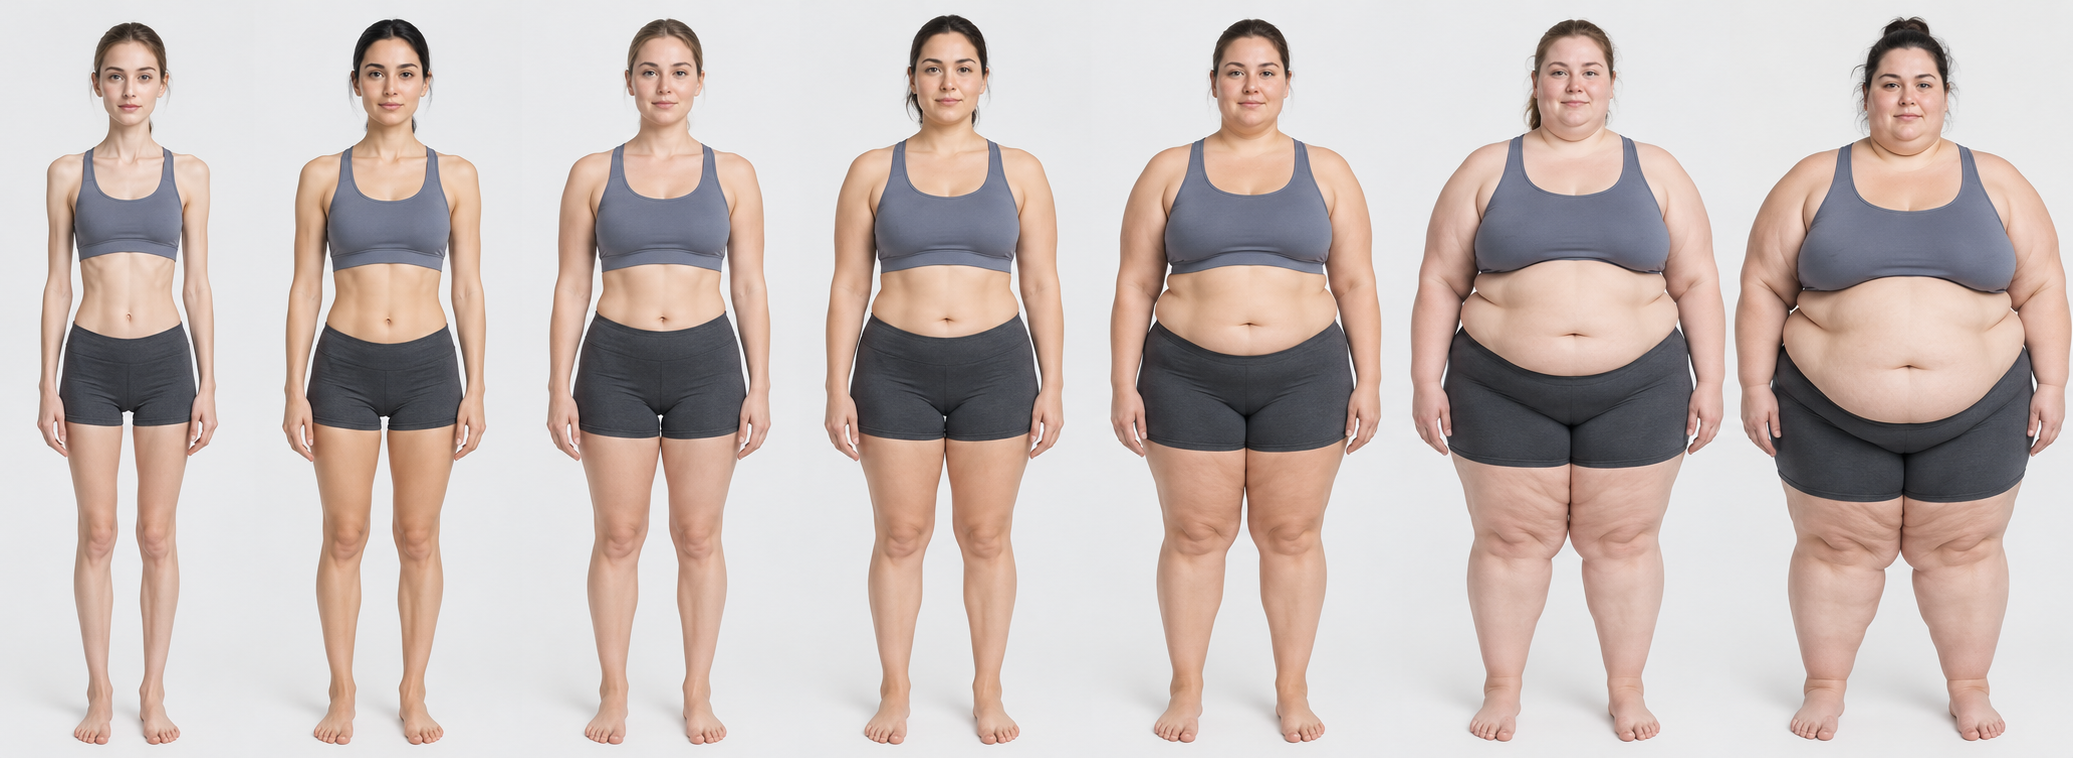
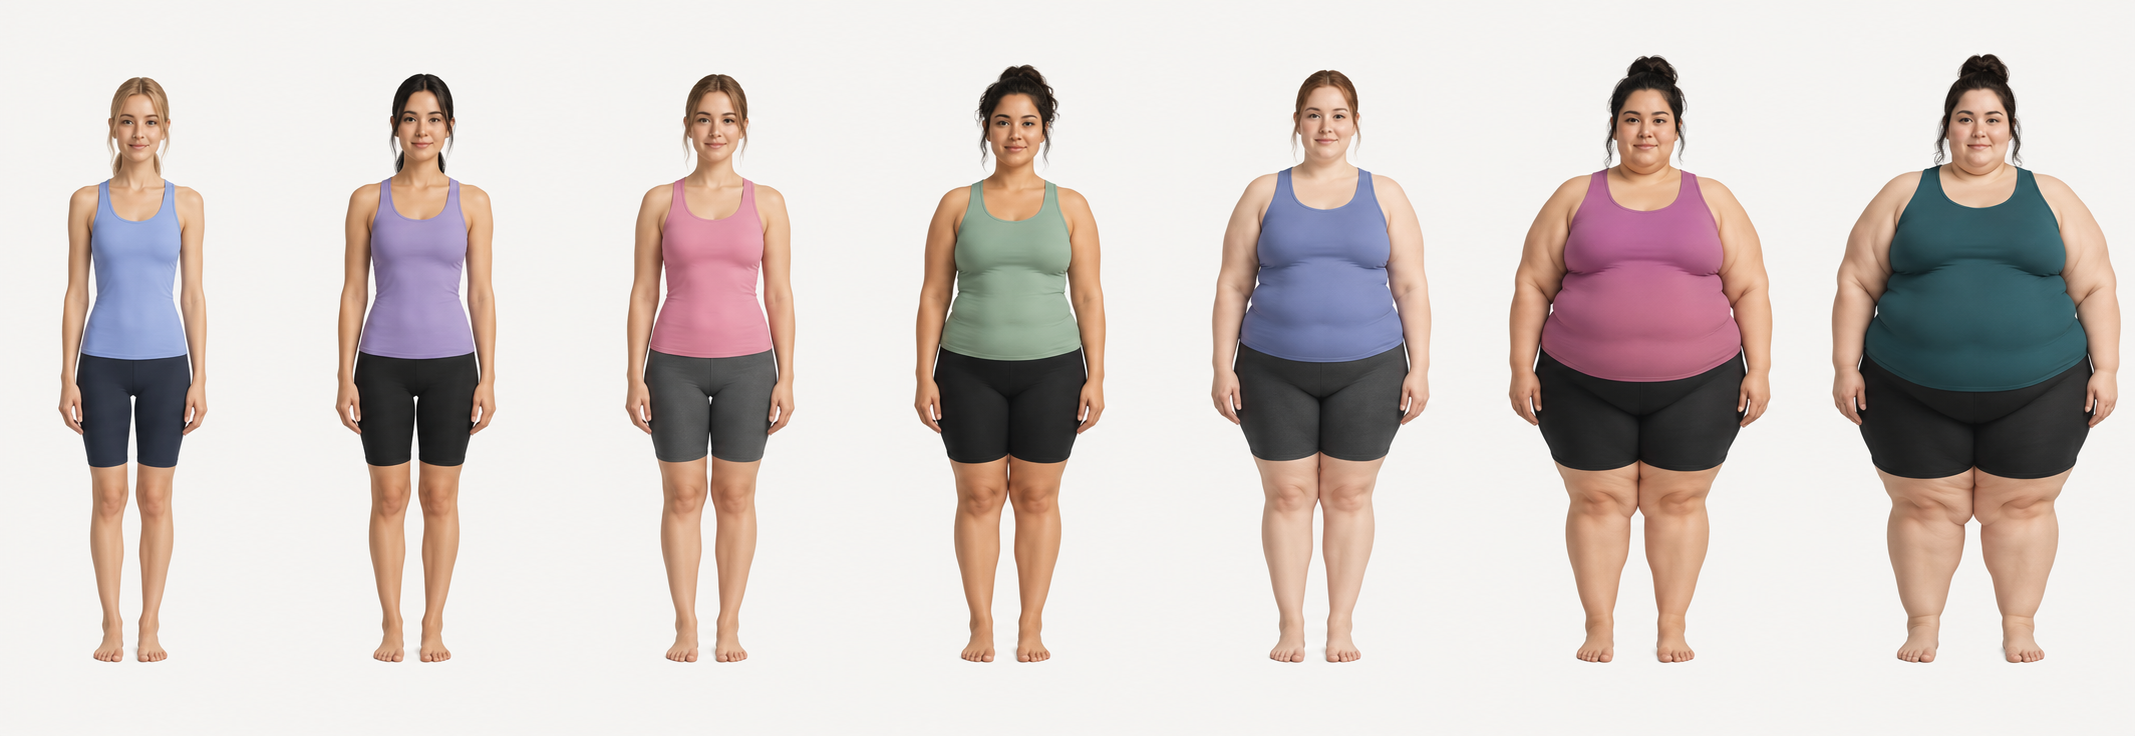
Corregir diseño móvil de datos corporales

diff --git a/gym_project/gym_app/static/css/progreso_onboarding.css b/gym_project/gym_app/static/css/progreso_onboarding.css
@@ -1,8 +1,9 @@
+body:has(.onboarding-page),body:has(.composition-result-page){min-height:100vh;background:radial-gradient(ellipse at top,#172b45 0%,#0b1524 58%,#07111e 100%);color:#f3f5f9}
 .onboarding-page{width:min(920px,92%);margin:0 auto;padding:clamp(2rem,5vw,4rem) 0 5rem;color:#f3f5f9}
 .onboarding-heading{max-width:760px;margin:0 auto 1.6rem;text-align:center}
 .onboarding-heading .eyebrow{display:inline-block;color:#ffb11b;font-size:.78rem;font-weight:800;letter-spacing:.12em;text-transform:uppercase}
-.onboarding-heading h1{margin:.55rem 0;font-size:clamp(2rem,5vw,3rem);line-height:1.08}
-.onboarding-heading p{margin:.5rem auto;color:#c3ccda;font-size:1.05rem;line-height:1.6}
+.onboarding-heading h1{margin:.55rem 0;color:#f8fafc;font-size:clamp(2rem,5vw,3rem);line-height:1.08}
+.onboarding-heading p{margin:.5rem auto;color:#d2dbea;font-size:1.05rem;line-height:1.6}
 .onboarding-card{display:grid;gap:1.2rem;padding:clamp(1.1rem,3vw,2rem);border:1px solid #29384d;border-radius:22px;background:#101a2a;box-shadow:0 20px 55px #0004}
 .onboarding-fields{display:grid;grid-template-columns:repeat(2,minmax(0,1fr));gap:1rem}
 .field-block{display:grid;gap:.5rem;color:#dce2ed;font-weight:700}
@@ -25,7 +26,7 @@
 .body-visual-grid{display:grid;grid-template-columns:repeat(4,minmax(0,1fr));gap:.6rem}
 .body-visual-option{display:grid;gap:.35rem;padding:.45rem;border:1px solid #3c4858;border-radius:10px;text-align:center;cursor:pointer}
 .body-visual-option:has(input:checked){border-color:#ffad18;box-shadow:0 0 0 2px #ffad1850}
-.body-visual-image{min-height:130px;background-size:700% 100%;background-repeat:no-repeat;background-position:var(--sprite-position);border-radius:7px}
+.body-visual-image{display:block;width:100%;min-height:130px;background-size:700% 100%;background-repeat:no-repeat;background-position:var(--sprite-position);border-radius:7px}
 .body-visual-value{font-weight:800}
 .body-method-choice{display:flex;gap:.65rem;align-items:flex-start;padding:.8rem;border:1px solid #3a4658;border-radius:12px;cursor:pointer}
 .body-method-choice input{margin-top:.3rem;accent-color:#ffae13}

diff --git a/gym_project/gym_app/static/css/estilos_registrarse.css b/gym_project/gym_app/static/css/estilos_registrarse.css
@@ -210,8 +210,8 @@ body {
     background-color: #fff;
     border-radius: 9px;
 }
-[data-visual-gender="masculino"] .body-visual-image { background-image: url("../img/body-composition/referencia_grasa_masculina.png"); }
-[data-visual-gender="femenino"] .body-visual-image { background-image: url("../img/body-composition/referencia_grasa_femenina.png"); }
+[data-visual-gender="masculino"] .body-visual-image { background-image: url("../img/body-composition/referencia_grasa_masculina.png?v=paneles-espaciados-2"); }
+[data-visual-gender="femenino"] .body-visual-image { background-image: url("../img/body-composition/referencia_grasa_femenina.png?v=paneles-espaciados-2"); }
 .body-visual-value { display: block; padding-top: 0.25rem; font-size: 0.86rem; font-weight: 800; }
 .body-method-choice { display: flex; align-items: flex-start; gap: 0.6rem; margin: 0.5rem 0; color: #f8fafc; cursor: pointer; }
 .body-method-choice input { flex: 0 0 auto; margin-top: 0.25rem; accent-color: #f59e0b; }

diff --git a/gym_project/gym_app/templates/composicion_corporal.html b/gym_project/gym_app/templates/composicion_corporal.html
@@ -2,8 +2,8 @@
 {% load static %}
 {% block title %}Composición corporal · MaikerGym{% endblock %}
 {% block extra_css %}
-<link rel="stylesheet" href="{% static 'css/estilos_registrarse.css' %}?v=composicion-paso-separado-1">
-<link rel="stylesheet" href="{% static 'css/progreso_onboarding.css' %}?v=1">
+<link rel="stylesheet" href="{% static 'css/estilos_registrarse.css' %}?v=paneles-espaciados-2">
+<link rel="stylesheet" href="{% static 'css/progreso_onboarding.css' %}?v=contraste-mobile-2">
 {% endblock %}
 {% block content %}
 {% include "partials/app_nav.html" %}

diff --git a/gym_project/gym_app/templates/resultado_corporal.html b/gym_project/gym_app/templates/resultado_corporal.html
@@ -4,8 +4,8 @@
 {% block title %}MaikerGym - Resumen corporal{% endblock %}
 
 {% block extra_css %}
-<link rel="stylesheet" href="{% static 'css/estilos_registrarse.css' %}?v=resumen-corporal-1">
-<link rel="stylesheet" href="{% static 'css/progreso_onboarding.css' %}?v=1">
+<link rel="stylesheet" href="{% static 'css/estilos_registrarse.css' %}?v=paneles-espaciados-2">
+<link rel="stylesheet" href="{% static 'css/progreso_onboarding.css' %}?v=contraste-mobile-2">
 {% endblock %}
 
 {% block content %}

diff --git a/gym_project/gym_app/templates/progreso_peso.html b/gym_project/gym_app/templates/progreso_peso.html
@@ -1,7 +1,7 @@
 {% extends "base.html" %}
 {% load static %}
 {% block title %}Revisión de progreso · MaikerGym{% endblock %}
-{% block extra_css %}<link rel="stylesheet" href="{% static 'css/progreso_onboarding.css' %}?v=1">{% endblock %}
+{% block extra_css %}<link rel="stylesheet" href="{% static 'css/progreso_onboarding.css' %}?v=contraste-mobile-2">{% endblock %}
 {% block content %}
 {% include "partials/app_nav.html" %}
 <main class="onboarding-page">

diff --git a/gym_project/gym_app/templates/disponibilidad.html b/gym_project/gym_app/templates/disponibilidad.html
@@ -1,7 +1,7 @@
 {% extends "base.html" %}
 {% load static %}
 {% block title %}Tu semana · MaikerGym{% endblock %}
-{% block extra_css %}<link rel="stylesheet" href="{% static 'css/progreso_onboarding.css' %}?v=1">{% endblock %}
+{% block extra_css %}<link rel="stylesheet" href="{% static 'css/progreso_onboarding.css' %}?v=contraste-mobile-2">{% endblock %}
 {% block content %}
 {% include "partials/app_nav.html" %}
 <main class="onboarding-page">

diff --git a/gym_project/gym_app/templates/datos_basicos.html b/gym_project/gym_app/templates/datos_basicos.html
@@ -2,7 +2,7 @@
 {% load static %}
 {% block title %}Datos básicos · MaikerGym{% endblock %}
 {% block extra_css %}
-<link rel="stylesheet" href="{% static 'css/progreso_onboarding.css' %}?v=1">
+<link rel="stylesheet" href="{% static 'css/progreso_onboarding.css' %}?v=contraste-mobile-2">
 {% endblock %}
 {% block content %}
 {% include "partials/app_nav.html" %}

diff --git a/gym_project/gym_app/templates/datos_personales.html b/gym_project/gym_app/templates/datos_personales.html
@@ -4,7 +4,7 @@
 {% block title %}MaikerGym - Datos personales{% endblock %}
 
 {% block extra_css %}
-    <link rel="stylesheet" href="{% static 'css/estilos_registrarse.css' %}?v=registro-documento-movil-2">
+    <link rel="stylesheet" href="{% static 'css/estilos_registrarse.css' %}?v=paneles-espaciados-2">
 {% endblock %}
 
 {% block content %}

diff --git a/gym_project/gym_app/templates/registrarse.html b/gym_project/gym_app/templates/registrarse.html
@@ -4,7 +4,7 @@
 {% block title %}MaikerGym - Registrarse{% endblock %}
 
 {% block extra_css %}
-    <link rel="stylesheet" href="{% static 'css/estilos_registrarse.css' %}?v=registro-documento-movil-2">
+    <link rel="stylesheet" href="{% static 'css/estilos_registrarse.css' %}?v=paneles-espaciados-2">
 {% endblock %}
 
 {% block content %}
